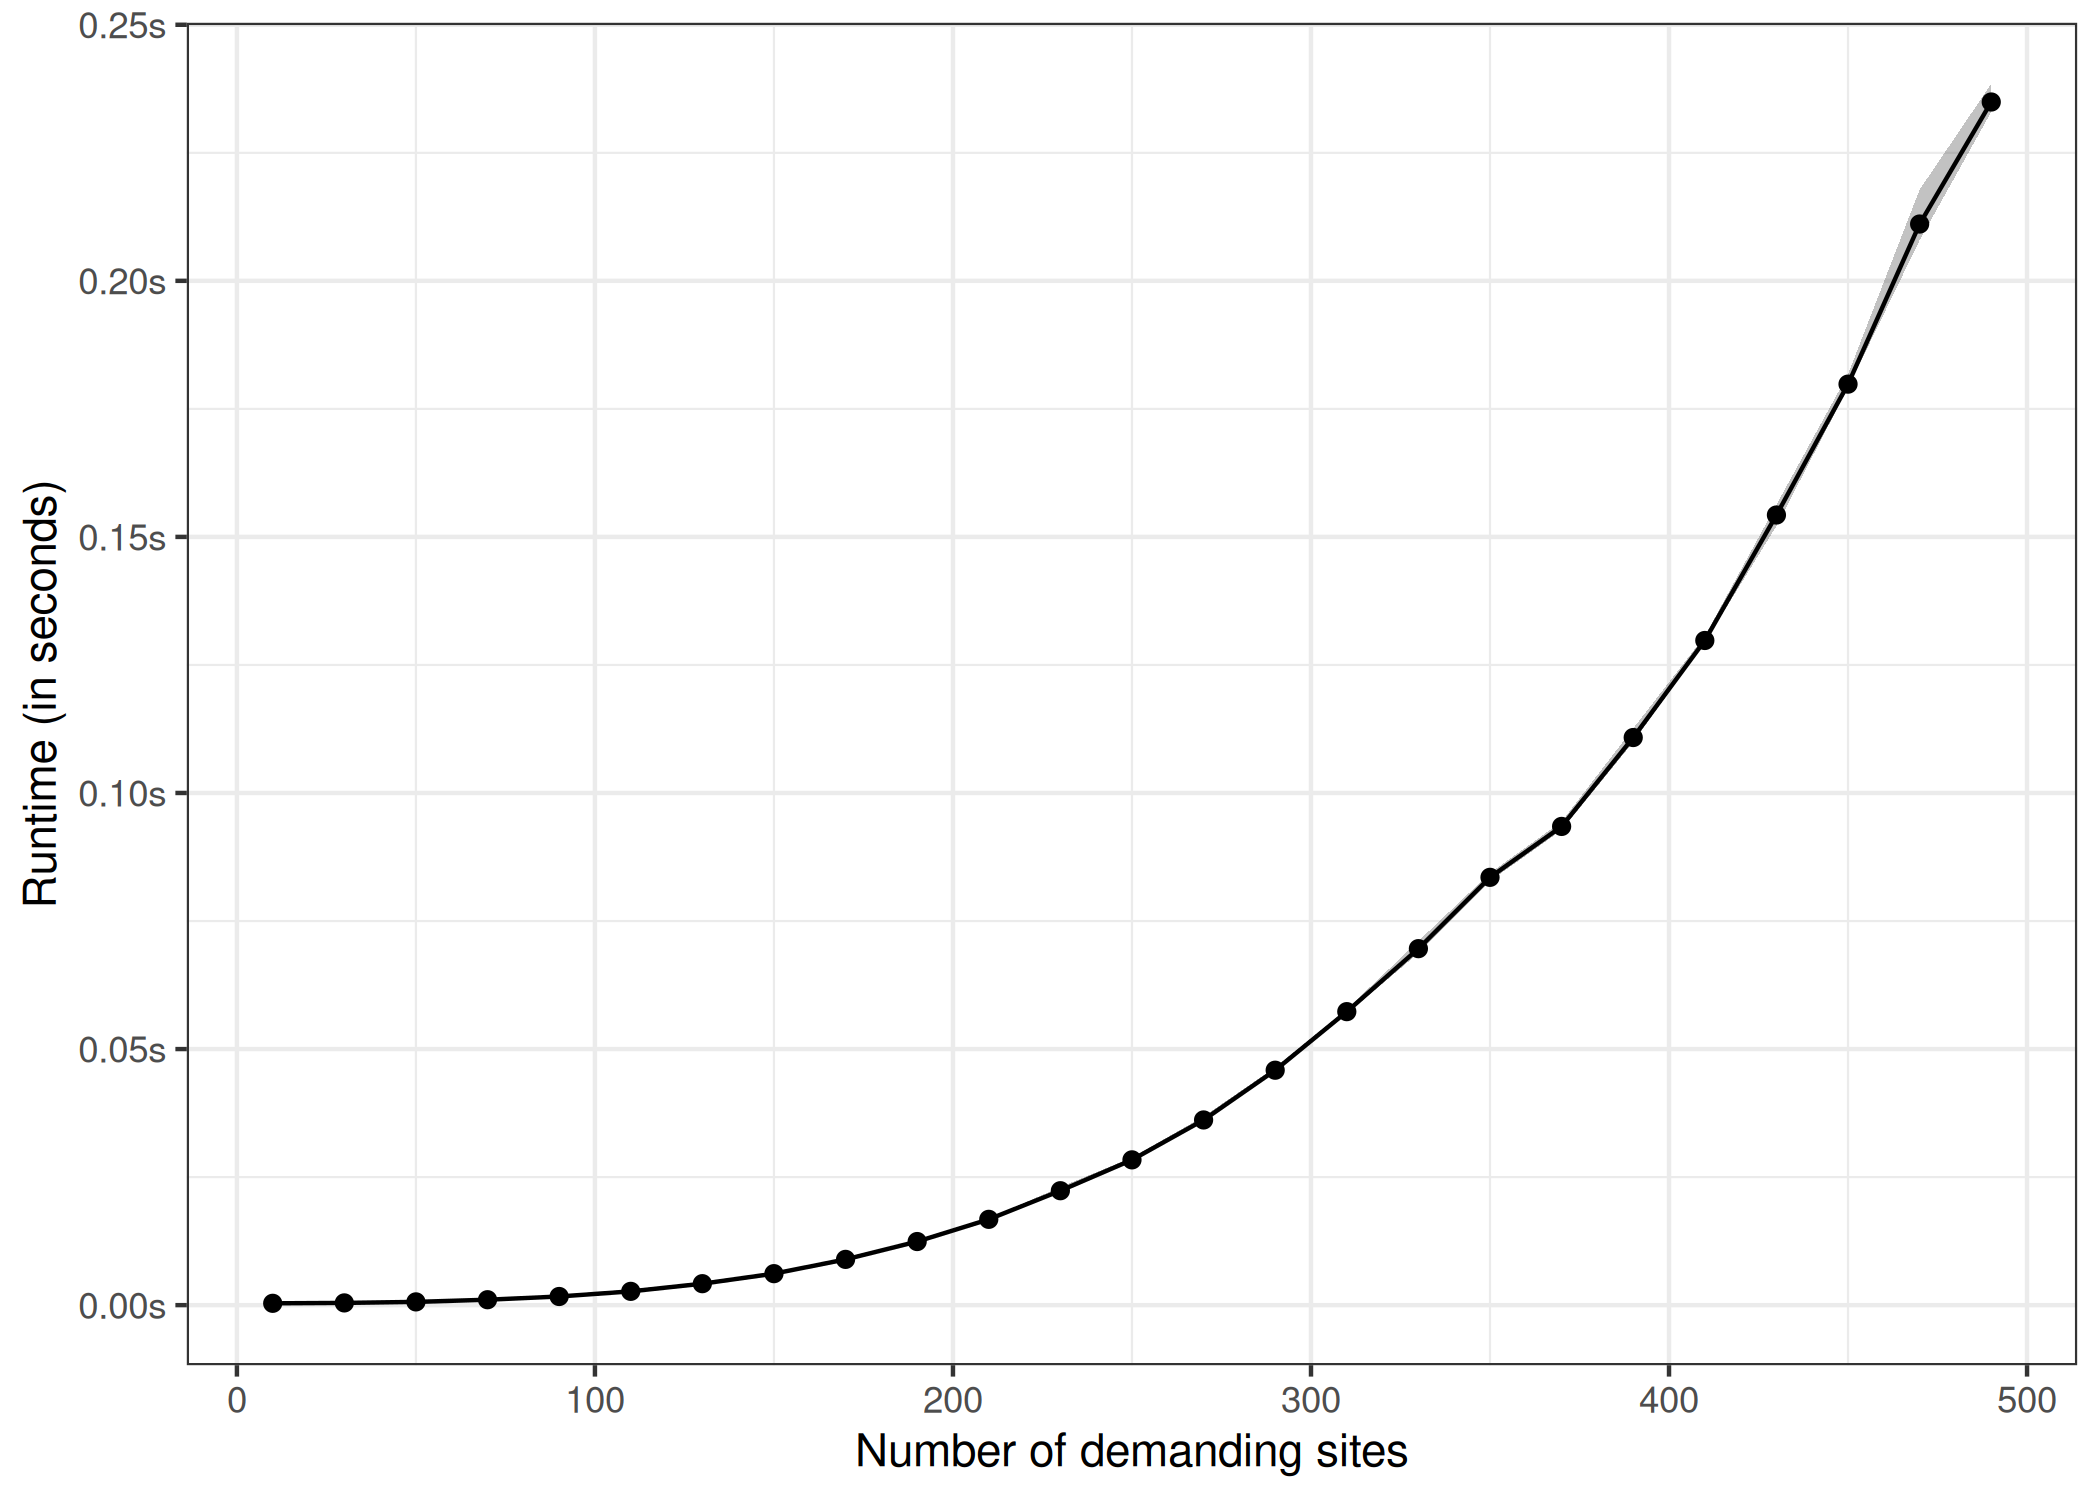
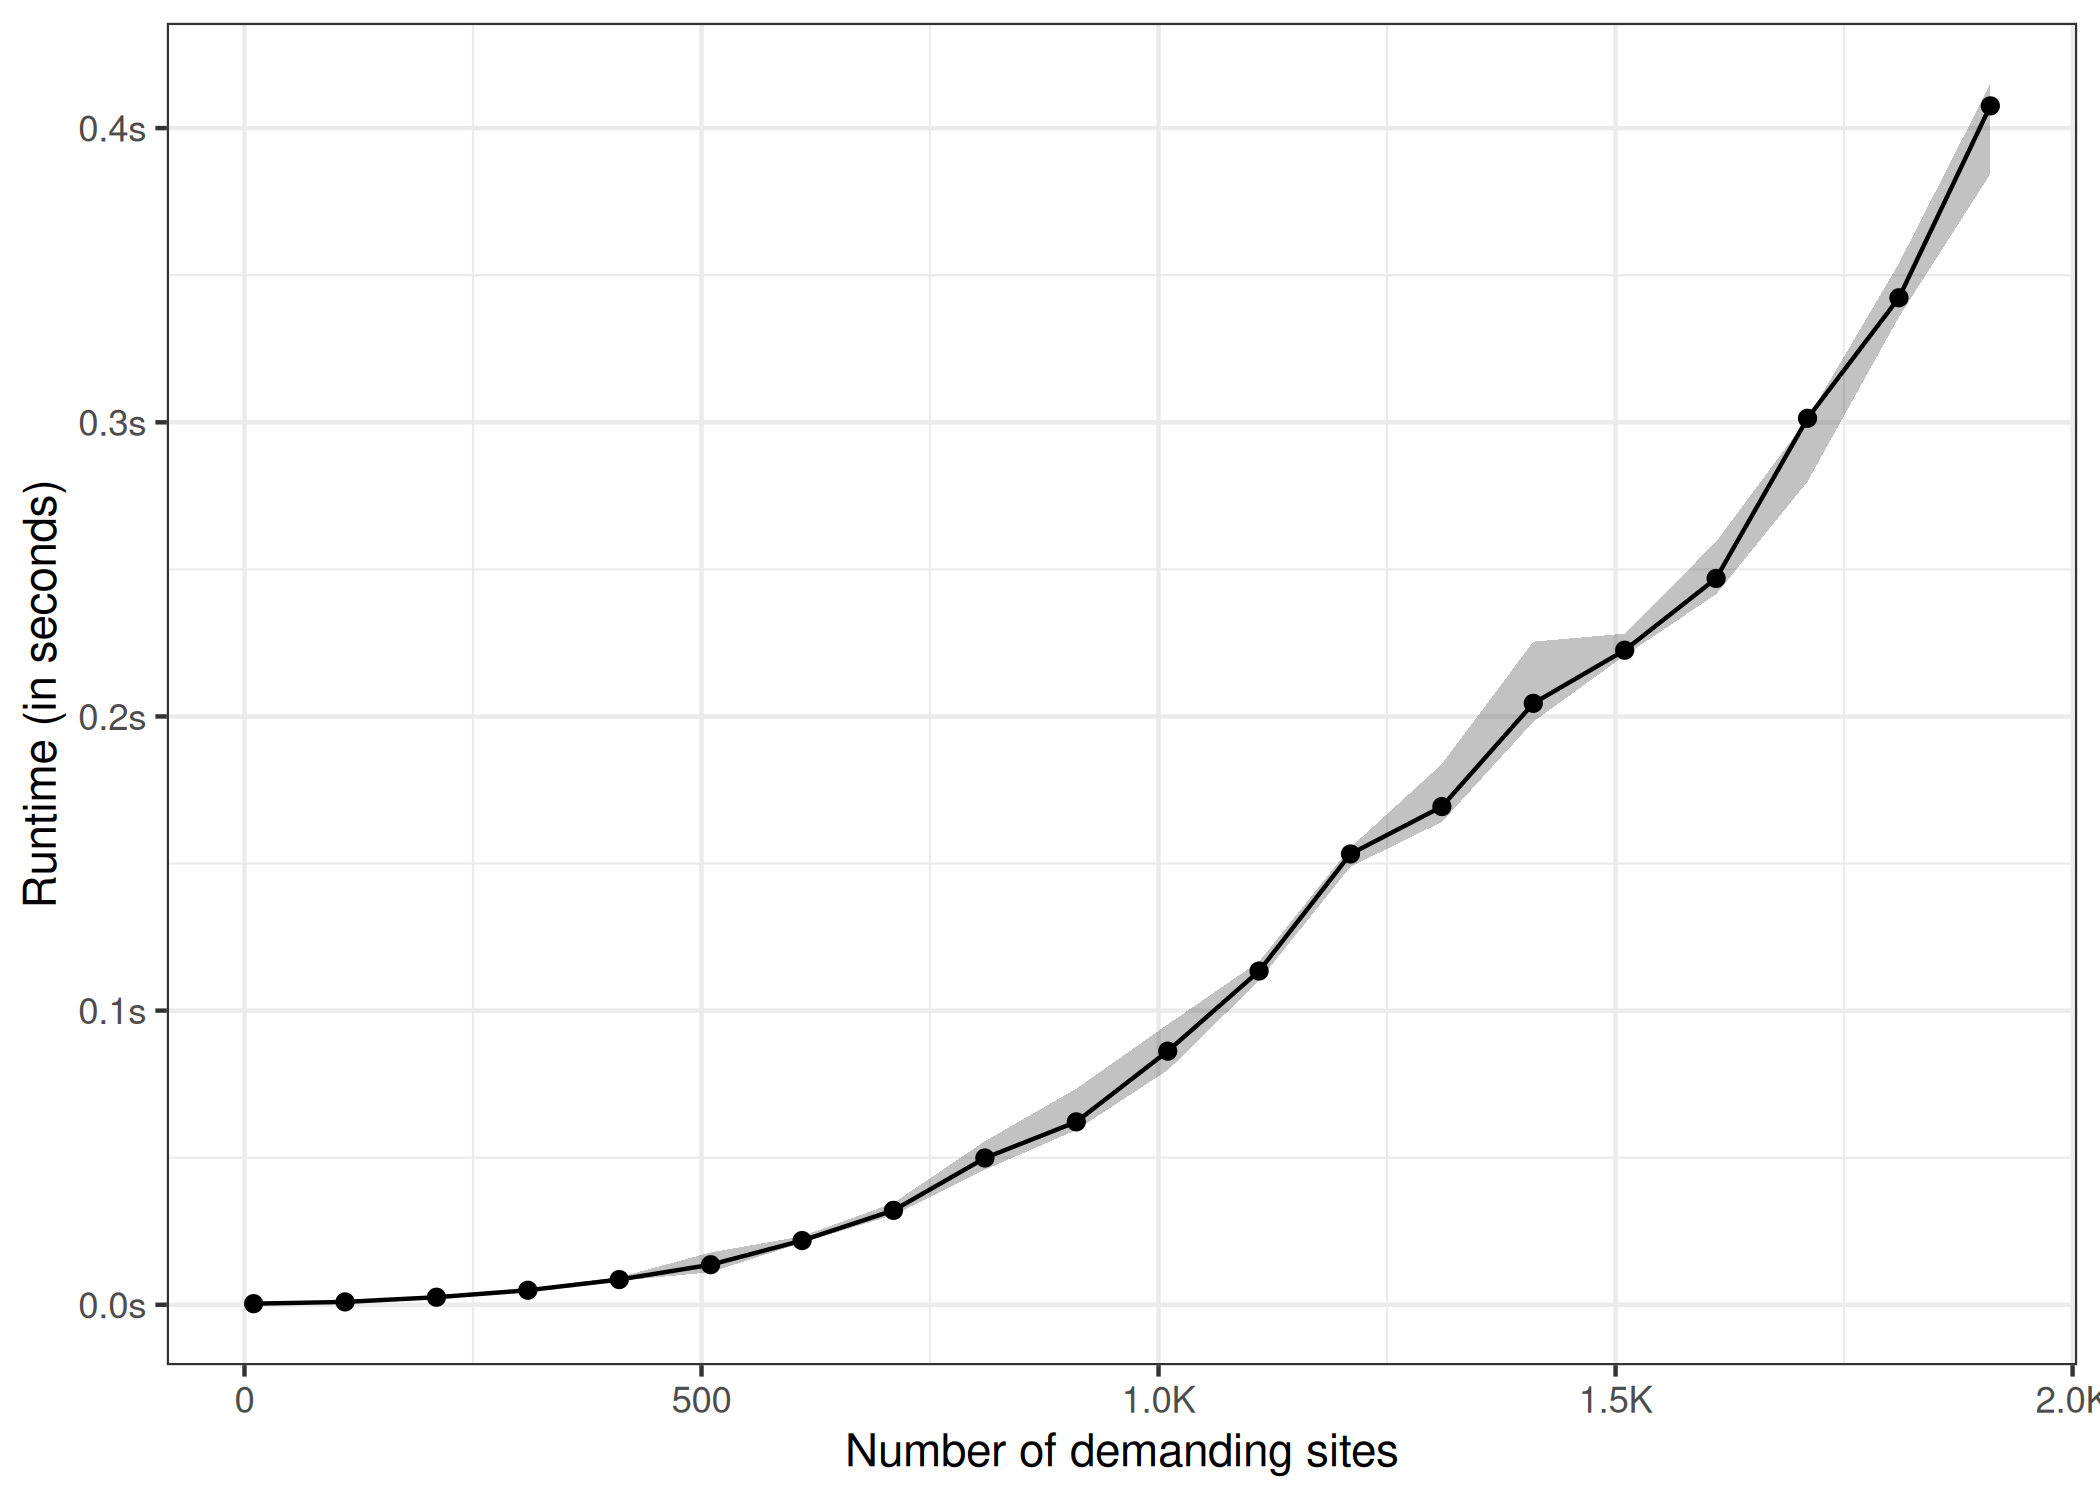
Update benchmark results, README and NEWS for the link cache

diff --git a/NEWS.md b/NEWS.md
@@ -14,6 +14,8 @@
 
 -   `clarke_wright()` now supports negative demands: sites with negative demand are treated as "backhaul" points, i.e. they deliver goods back to the depot. Sites with positive and negative demands can be visited in any order within a run, as long as the load stays within the vehicle capacity at every point of the run. Negative demands that exceed vehicle capacities are split across multiple runs, like positive demands.
 
+-   `clarke_wright()` has gained a large runtime speedup compared to the previous version: for 500 sites the run time drops from about 6 seconds to about 0.01 seconds in our benchmarks. The actual speedup depends on input characteristics and grows with the number of sites.
+
 -   `clarke_wright()`: Results are now deterministic, also in case of tied savings. Run identifiers follow the order of run creation.
 
 

diff --git a/README.md b/README.md
@@ -160,10 +160,11 @@ to arrive at its final solution:
 The benchmarks were taken on an Intel® Xeon® CPU E3-1231 v3 @ 3.40GHz
 CPU, using the R package [bench](https://bench.r-lib.org/).
 
-The following graph shows the run time behavior as the number of sites
-$n$ increase. The curve exhibits near-cubic behavior in $n$. For
-$n = 110$ the performance is still relatively reasonable with a run time
-of $\sim 2.69ms$.
+The following graph shows the run time on one kind of problem: uniformly
+distributed random sites, demands between 5 and 15 and a vehicle
+capacity of 33. It amounts to $\sim 966µs$ for $n = 110$, $\sim 86.2ms$
+for $n = 1010$, and $\sim 408ms$ for $n = 1910$. Run times can differ
+for other problems.
 
 <img src="man/figures/README-benchmark_runtime-1.png" alt="" width="100%" />
 
